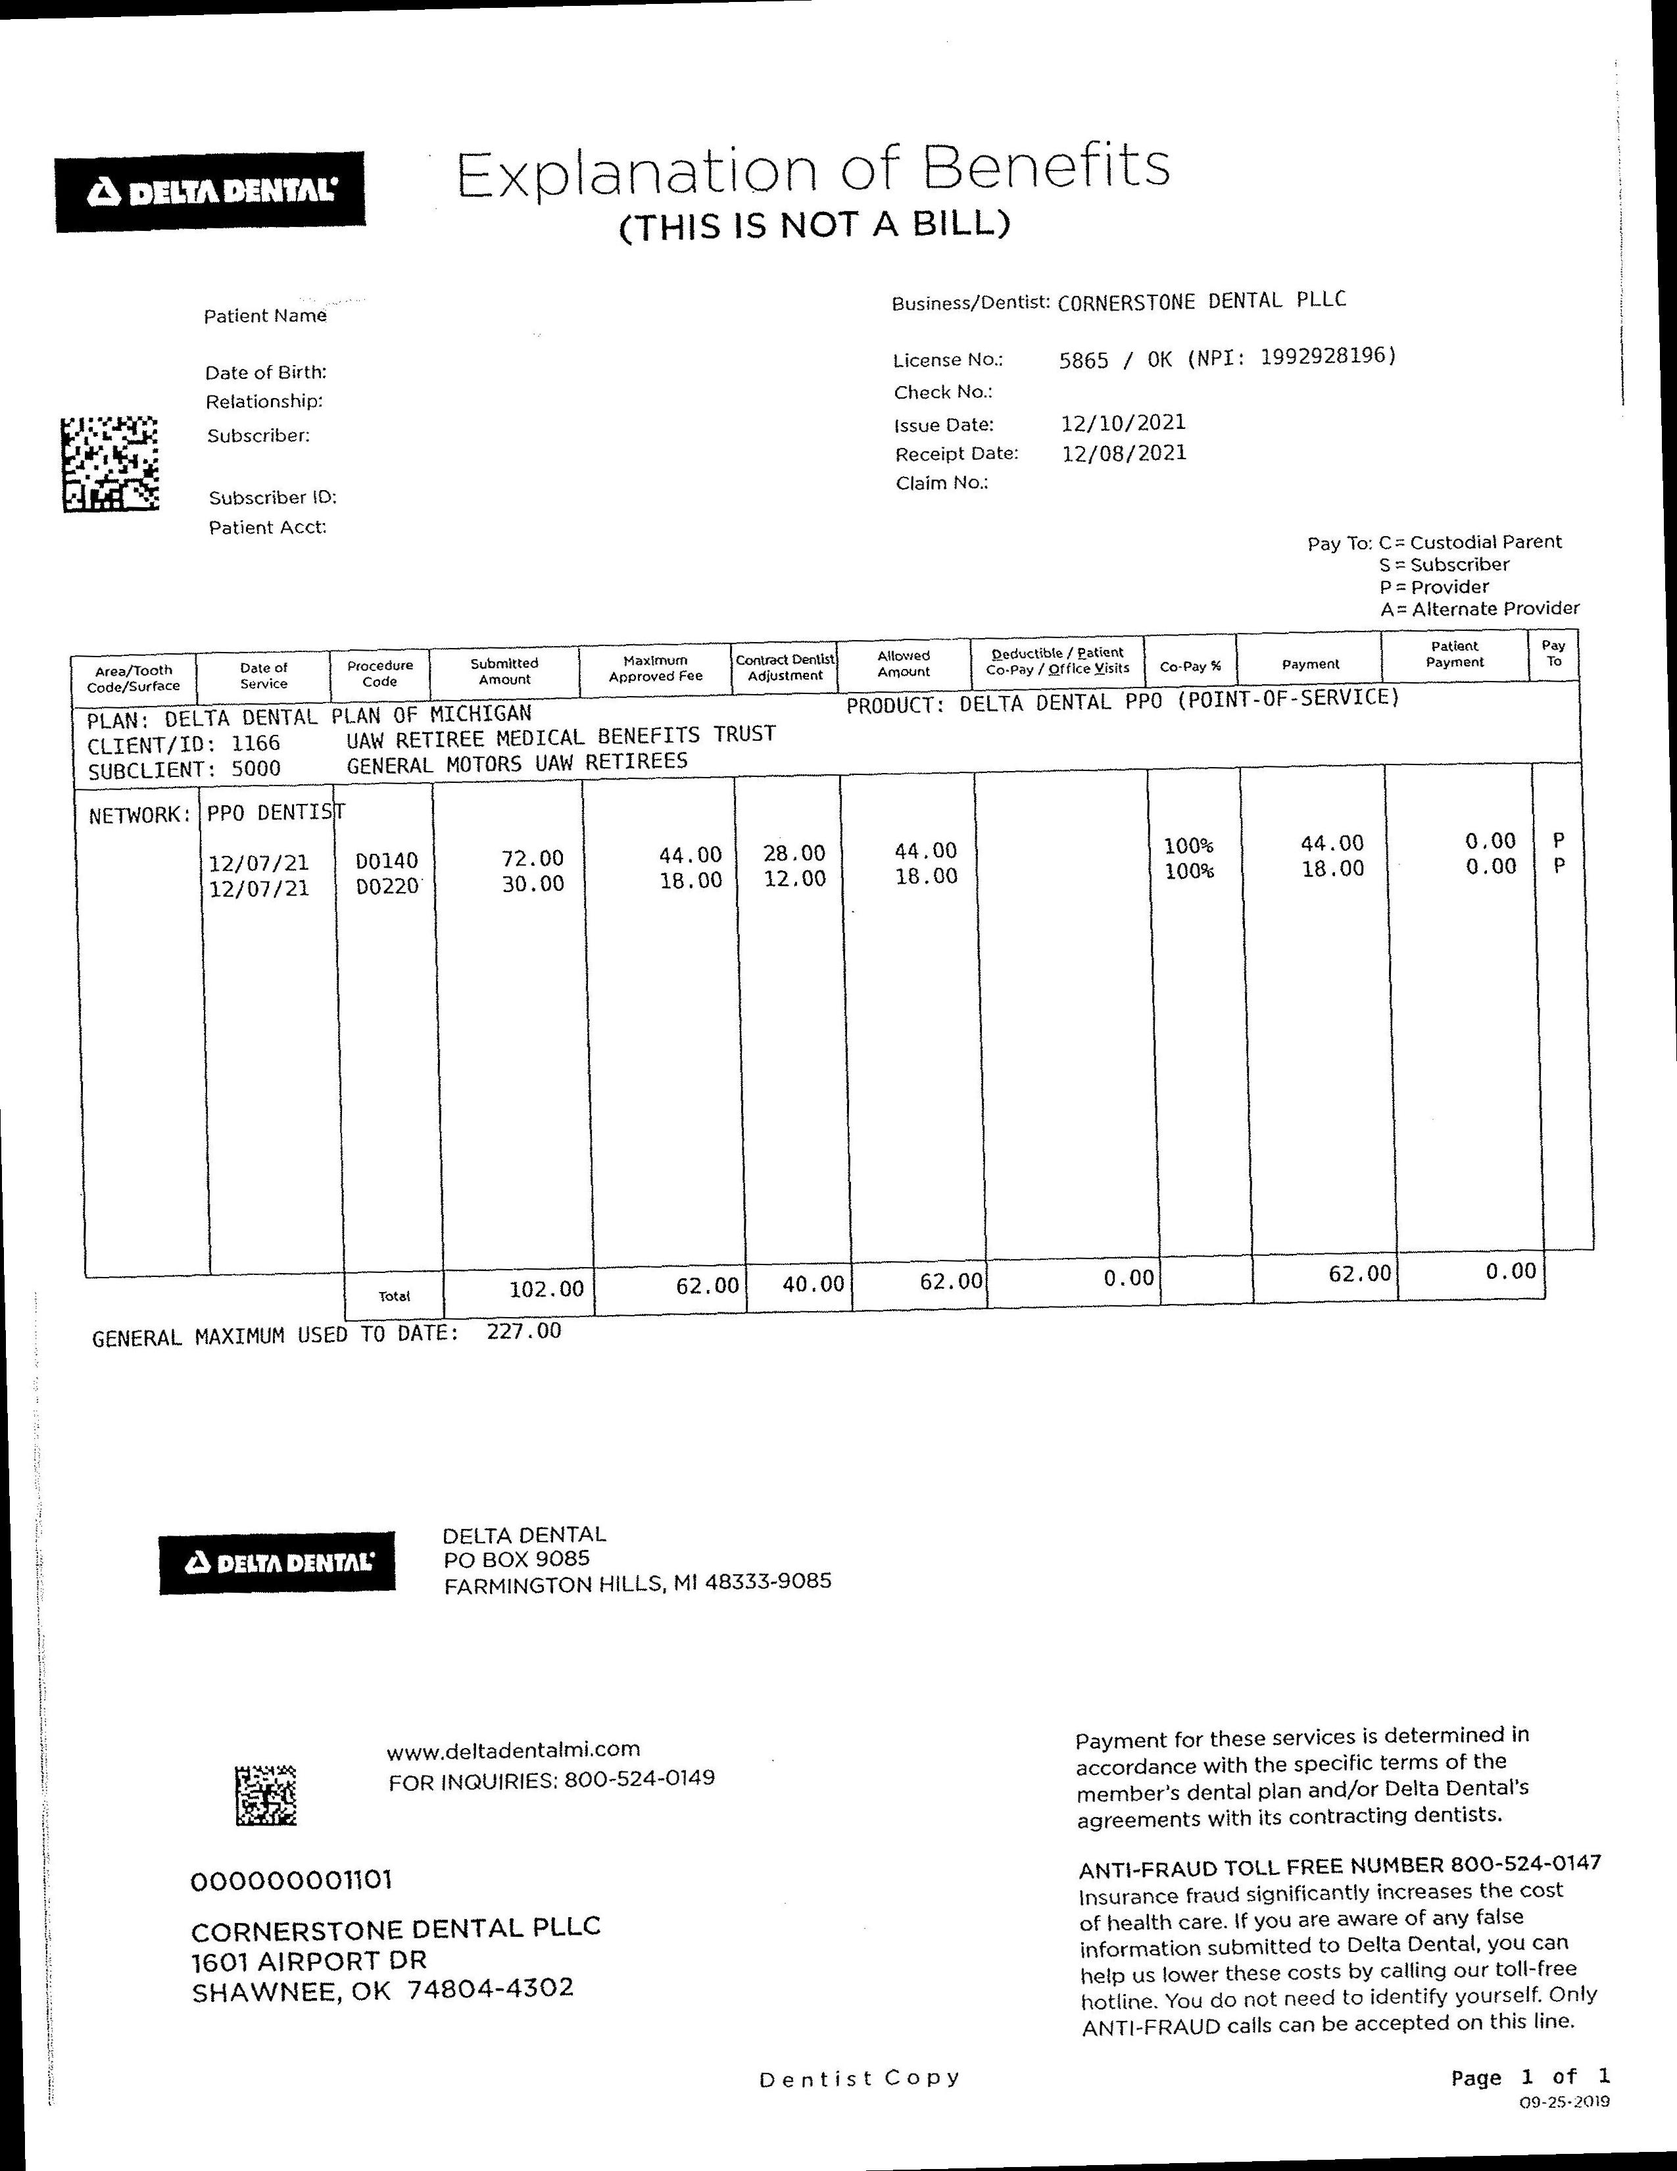
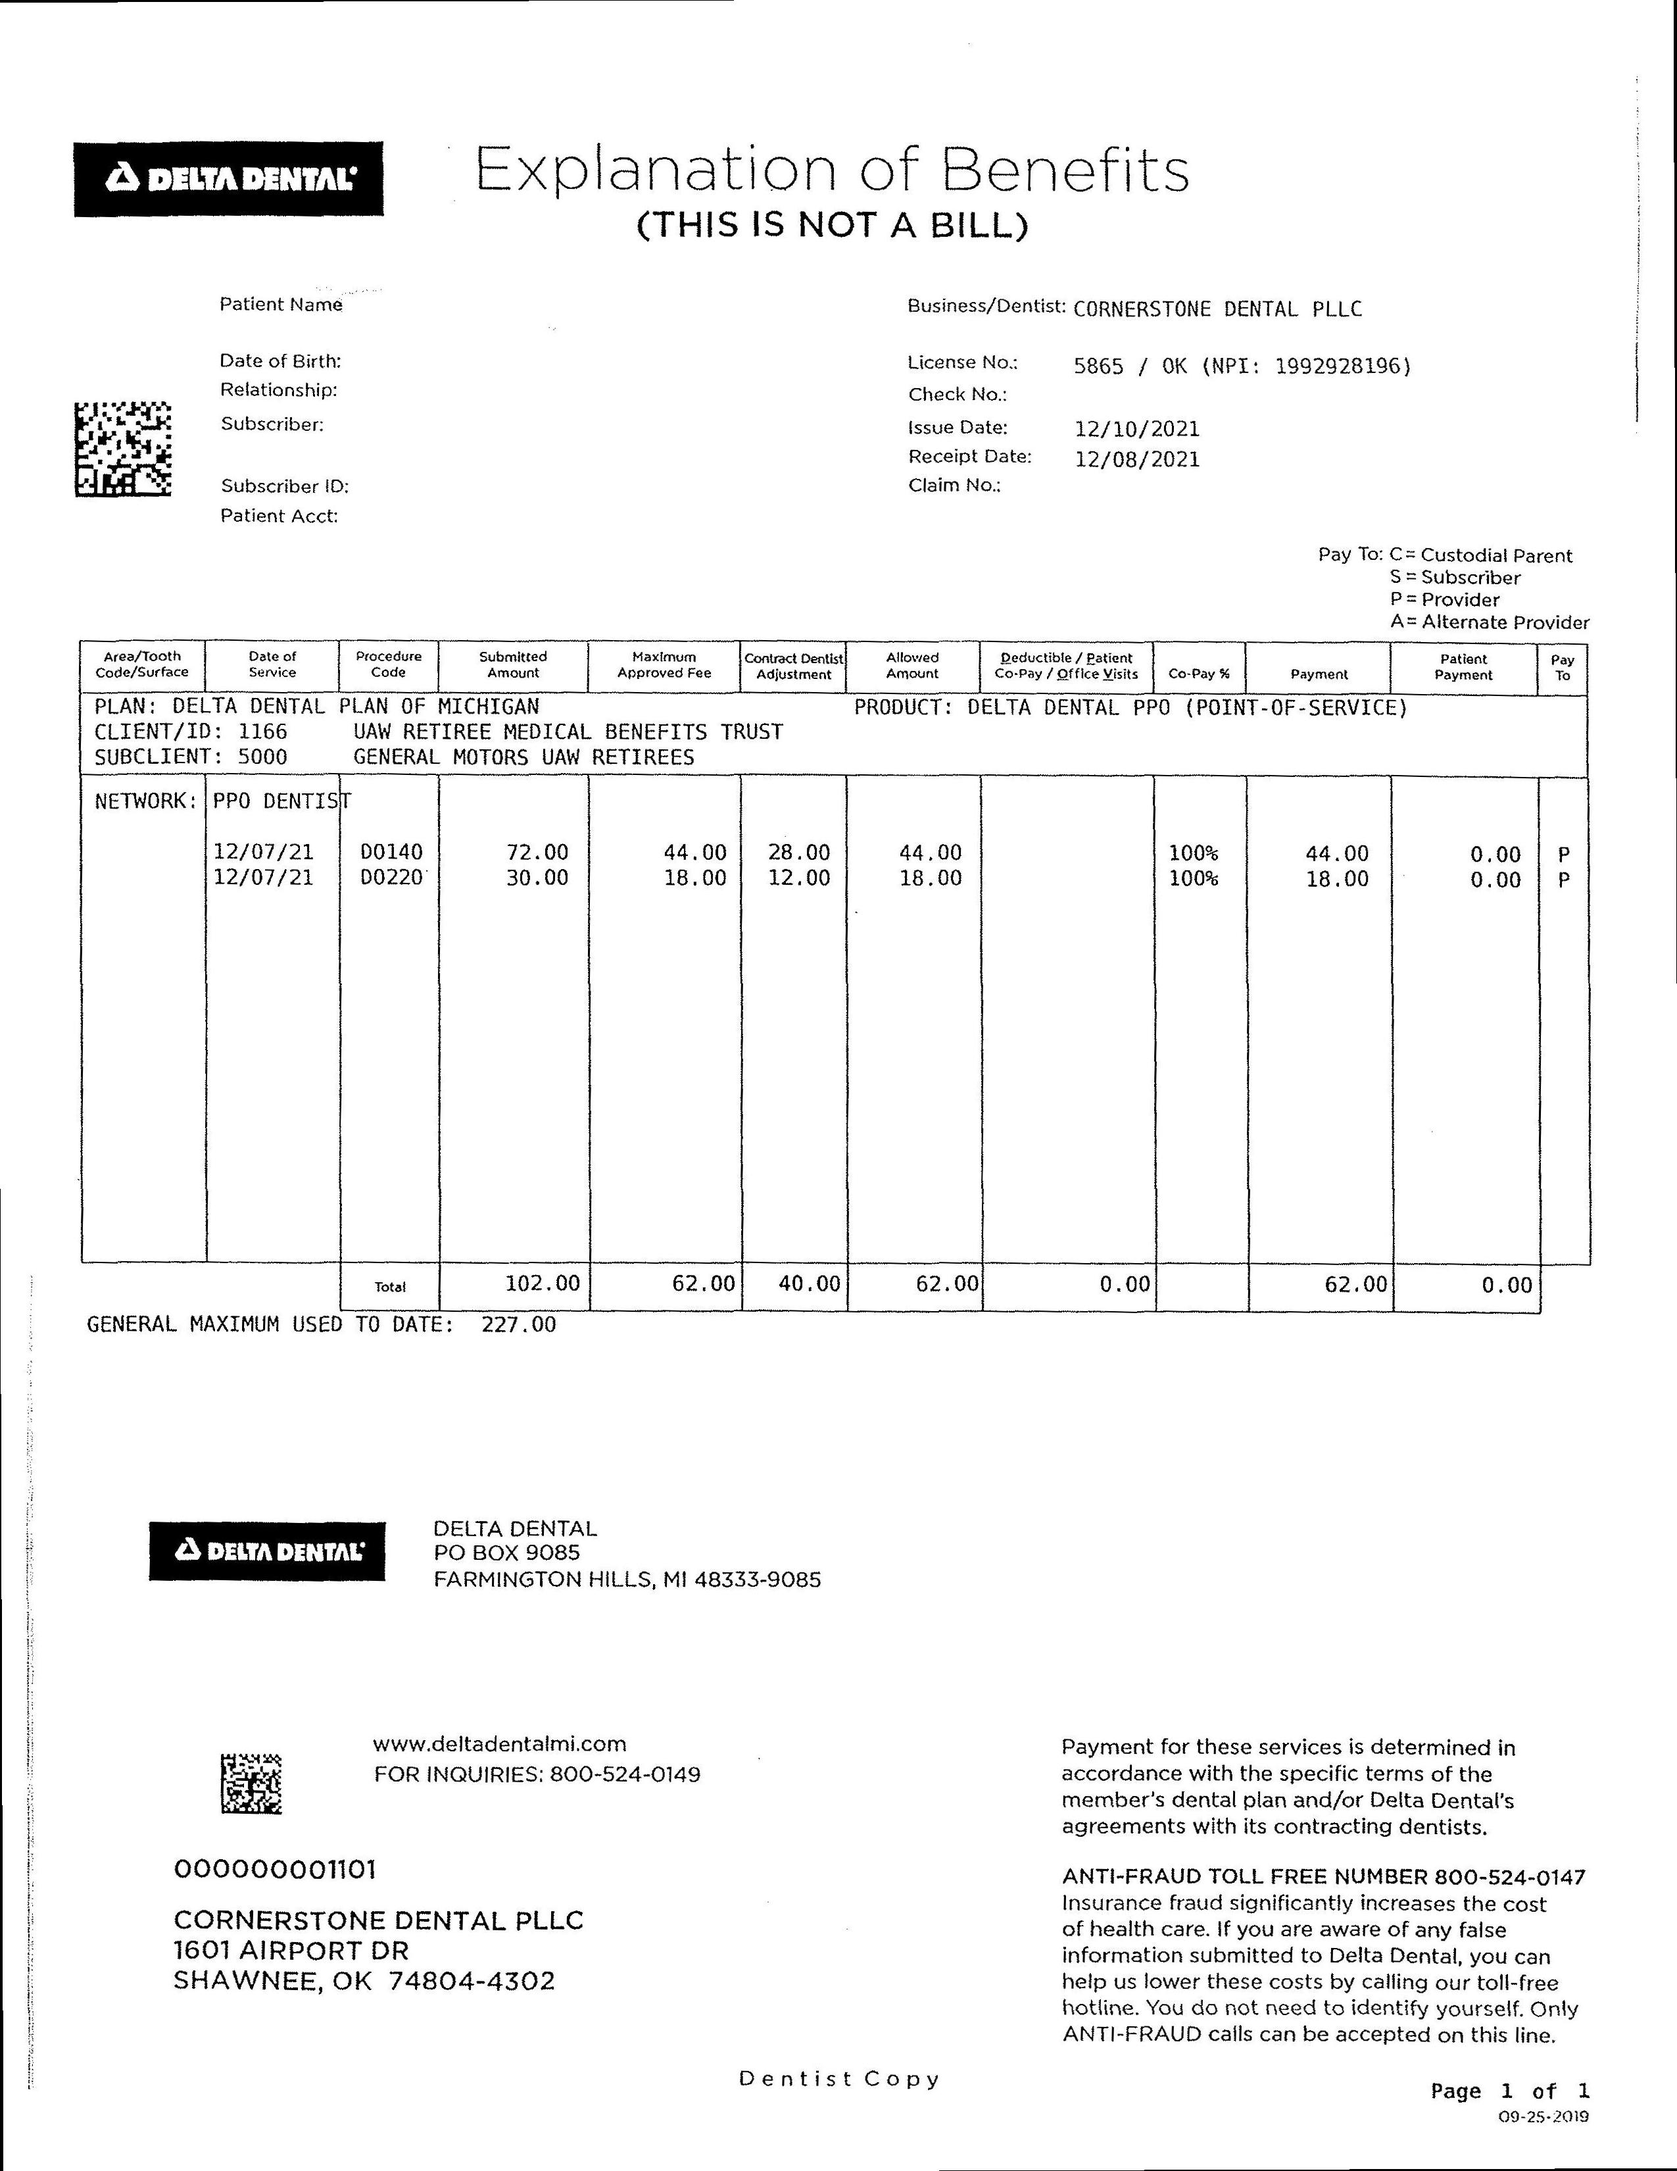
change tilt to use largest block

diff --git a/present/index.html b/present/index.html
@@ -3,7 +3,7 @@
 <head><meta charset="utf-8" />
 <meta name="viewport" content="width=device-width, initial-scale=1.0">
 
-<title>tech</title><script src="https://cdnjs.cloudflare.com/ajax/libs/require.js/2.1.10/require.min.js"></script>
+<title>index</title><script src="https://cdnjs.cloudflare.com/ajax/libs/require.js/2.1.10/require.min.js"></script>
 
 
 
@@ -14579,44 +14579,10 @@ body[data-format='mobile'] .jp-OutputArea-child .jp-OutputArea-output {
 </div>
 <div class="jp-InputArea jp-Cell-inputArea"><div class="jp-InputPrompt jp-InputArea-prompt">
 </div><div class="jp-RenderedHTMLCommon jp-RenderedMarkdown jp-MarkdownOutput " data-mime-type="text/markdown">
-<h1 id="CS4273-Team-7-Technology-Used">CS4273 Team 7 Technology Used<a class="anchor-link" href="#CS4273-Team-7-Technology-Used">&#182;</a></h1><p>Eric Chen<br>
+<h1 id="CS4273-Team-7-OCR-Project">CS4273 Team 7 OCR Project<a class="anchor-link" href="#CS4273-Team-7-OCR-Project">&#182;</a></h1><p>Eric Chen<br>
 Kaden Cochran<br>
 Nick Thompson</p>
-<h2 id="Communication">Communication<a class="anchor-link" href="#Communication">&#182;</a></h2><ul>
-<li><strong>GitHub</strong><ul>
-<li>Host our project <a href="https://github.com/Thoic/Capstone-OCR">repository</a></li>
-</ul>
-</li>
-<li><strong>Discord</strong><ul>
-<li>Conference for synchronous meetings and group work</li>
-<li>File sharing for project deliverables</li>
-</ul>
-</li>
-</ul>
-<h2 id="Implementation">Implementation<a class="anchor-link" href="#Implementation">&#182;</a></h2><ul>
-<li><strong>Python</strong><ul>
-<li>powerful 'proof-of-concept' language</li>
-</ul>
-</li>
-<li><strong>Google Cloud Vision API</strong><ul>
-<li>Easily detect and classify multiple objects including the location of each object within an image via google's pre-trained machine learning agents</li>
-</ul>
-</li>
-<li><strong>Flask</strong><ul>
-<li>Python Web Framework, perfect for small web applications</li>
-</ul>
-</li>
-<li><strong>Pillow</strong><ul>
-<li>Python library used for loading, cropping, resizing, and rotating images</li>
-</ul>
-</li>
-</ul>
-<h2 id="Deployment">Deployment<a class="anchor-link" href="#Deployment">&#182;</a></h2><ul>
-<li><strong>Google Cloud Platform</strong><ul>
-<li>Used to serve our web application for demonstration</li>
-</ul>
-</li>
-</ul>
+<h2 id="Introduction">Introduction<a class="anchor-link" href="#Introduction">&#182;</a></h2><h2 id="Technolgy-Used">Technolgy Used<a class="anchor-link" href="#Technolgy-Used">&#182;</a></h2><p>Can be found <a href="/tech.html">here</a></p>
 
 </div>
 </div>

diff --git a/showcase_scripts/tilt.py b/showcase_scripts/tilt.py
@@ -6,27 +6,31 @@ import io
 
 from google.cloud import vision
 
-IMAGE_PATH = 'dataset/center'
+IMAGE_PATH = 'dataset/original2'
 
 
 def main():
     client = vision.ImageAnnotatorClient()
 
     img = Image.open(IMAGE_PATH + '.jpg')
+
     width, height = img.size
-    img1 = img.crop((0, 0, width/3, height/8))
+
+    # fix tilt
+    img0 = img.crop((0,0, width, height))
     buffer = io.BytesIO()
-    img1.save(buffer, "PNG")
+    img0.save(buffer, "PNG")
 
     content = buffer.getvalue()
     image = vision.Image(content=content)
 
     response = client.text_detection(image=image)
-    texts = response.text_annotations
+    text = response.full_text_annotation
+    page = text.pages[0]
 
-    vertices = texts[2].bounding_poly.vertices
-    tilt_angle = math.atan2(vertices[3].y-vertices[0].y,vertices[0].x-vertices[3].x) * (180/math.pi)
-    img = img.rotate(90-tilt_angle)
+    vertices = page.blocks[0].bounding_box.vertices
+    tilt_angle = math.atan2(vertices[3].y-vertices[2].y,vertices[2].x-vertices[3].x) * (180/math.pi)
+    img = img.rotate(-tilt_angle)
     img.save(IMAGE_PATH + '_fixed.jpg')
 
 if __name__ == "__main__":

diff --git a/showcase_scripts/draw_boxes.py b/showcase_scripts/draw_boxes.py
@@ -76,6 +76,8 @@ def get_document_bounds(image_file, feature):
 
 def render_doc_text(filein, fileout):
     image = Image.open(filein)
+    bounds = get_document_bounds(filein, FeatureType.BLOCK)
+    draw_boxes(image,bounds, "blue")
     bounds = get_document_bounds(filein, FeatureType.PARA)
     draw_boxes(image, bounds, "red")
     bounds = get_document_bounds(filein, FeatureType.WORD)
@@ -88,7 +90,7 @@ def render_doc_text(filein, fileout):
 
 
 def main():
-    render_doc_text(IMAGE_PATH, OUT_PATH)
+    render_doc_text(IMAGE_PATH, 0)
 
 if __name__ == "__main__":
     main()

diff --git a/showcase_scripts/form_extract.py b/showcase_scripts/form_extract.py
@@ -87,11 +87,8 @@ def main():
     response1 = client.document_text_detection(image=image1)
     document1 = response1.full_text_annotation
 
-
-
-    # location_npi = find_word_location(document1, 'NPI')
-    # npi_text = text_within(document1, 15+location_npi.vertices[1].x, -5+location_npi.vertices[1].y, 245 + location_npi.vertices[1].x, 5+location_npi.vertices[2].y)
-    print(npi_text)
+    npi_number = document1.text.split()[1].split(')')[0]
+    print(npi_number)
 
 
     #image with header
